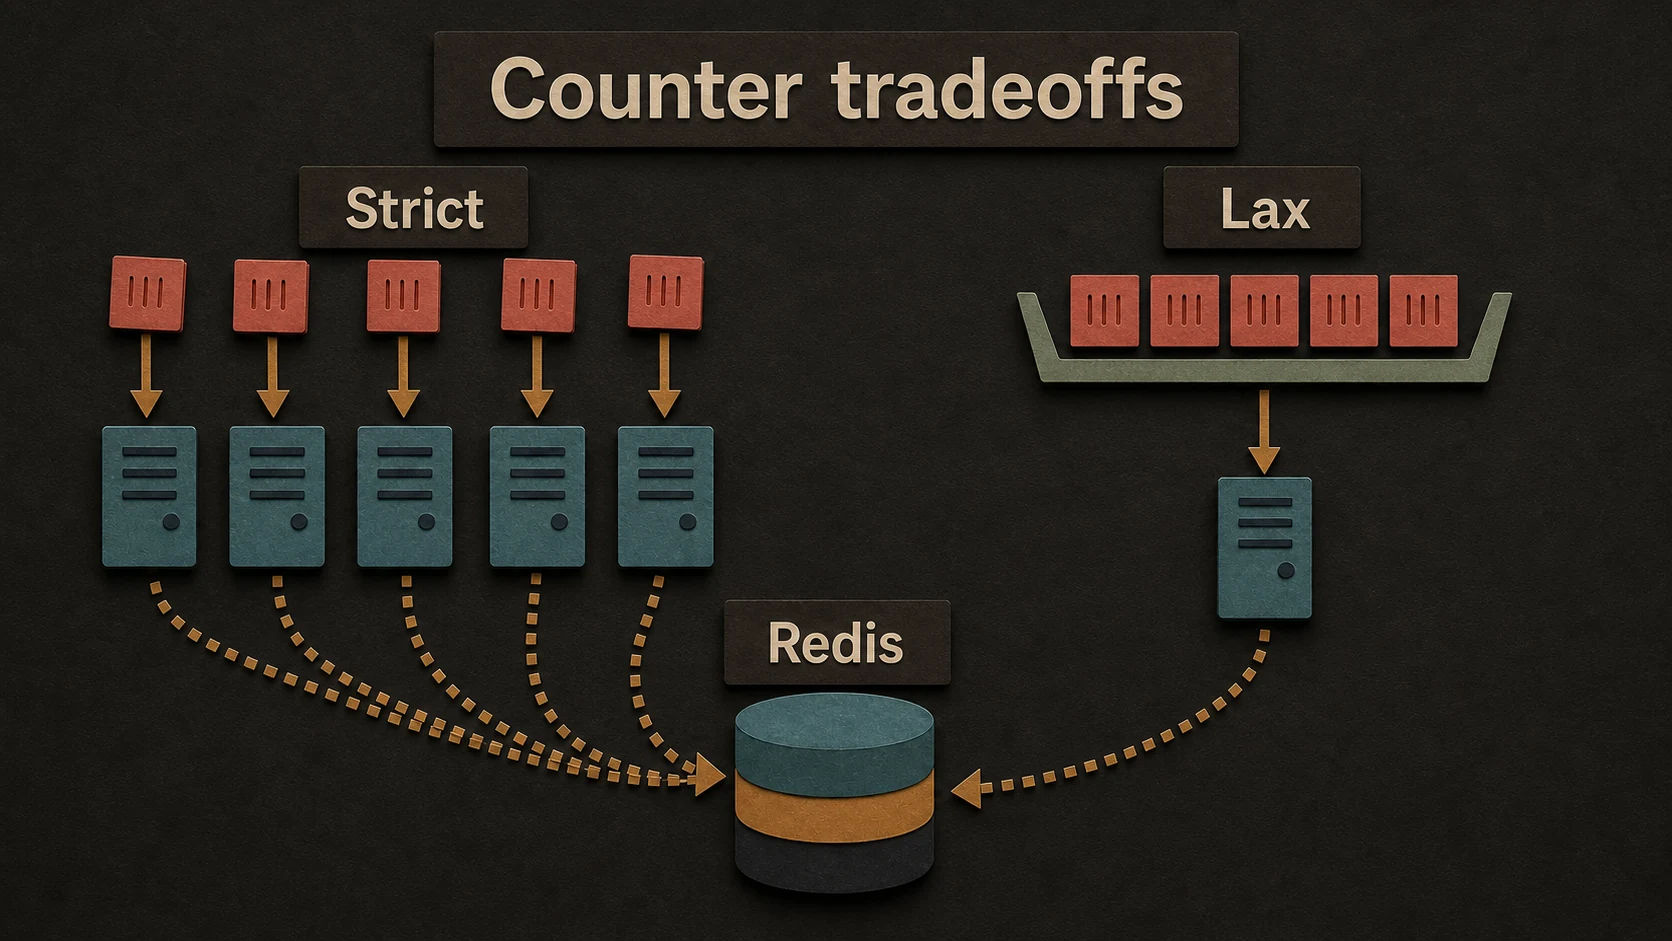
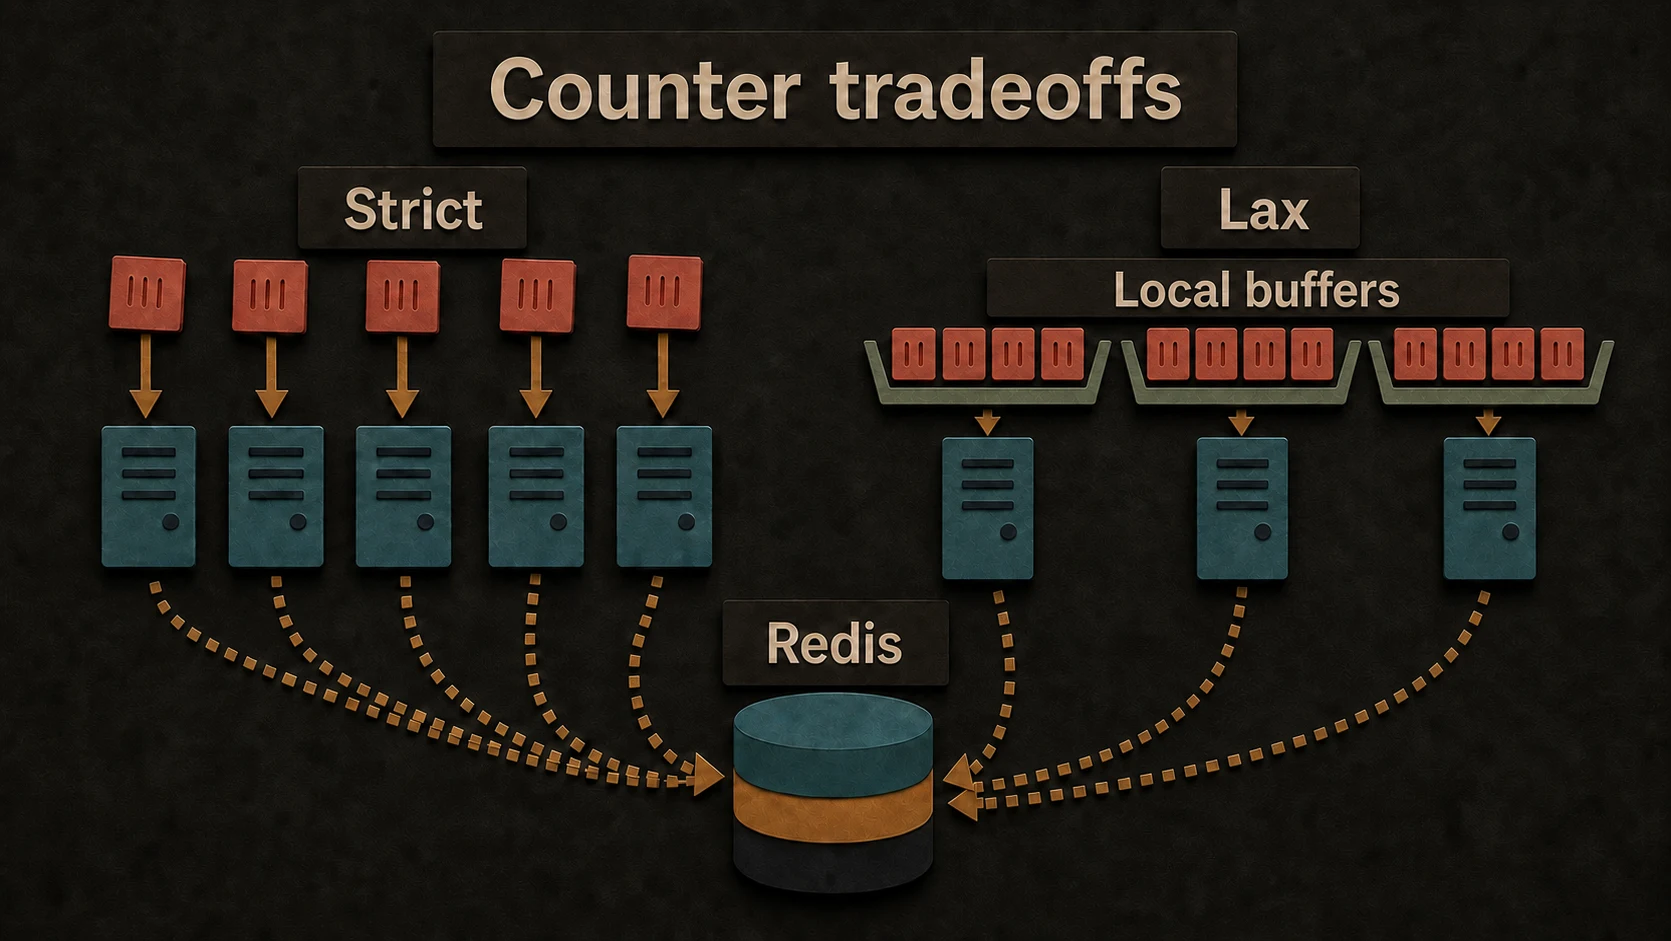
feat: media

diff --git a/content/4.instance-aware-counters/1.index.md b/content/4.instance-aware-counters/1.index.md
@@ -7,7 +7,7 @@ navigation:
 
 Instance-aware counters track each running instance's contribution separately. The **cumulative total is the sum of all live instances**. When an instance stops heartbeating for longer than `dead_instance_threshold_ms` (default 30 s), its slice is automatically removed from the cumulative the next time any surviving instance touches the same key.
 
-![Live instance slices, heartbeats, and automatic dead-instance cleanup](/media/distkit/instance-aware.webp){.rounded-2xl .border .border-neutral-800 .my-8}
+![Strict and lax instance-aware counters combine live slices and remove dead instances](/media/distkit/instance-aware-family.webp){.rounded-2xl .border .border-neutral-800 .my-8}
 
 They live behind the `instance-aware-counter` feature:
 

diff --git a/content/1.getting-started/1.index.md b/content/1.getting-started/1.index.md
@@ -14,7 +14,7 @@ distkit is a toolkit of distributed systems primitives for Rust, backed by Redis
 
 Everything is async and built for [Tokio](https://tokio.rs). Strict operations push their logic into Redis as Lua scripts, so a single round-trip is atomic across every instance sharing the same Redis.
 
-![A request and Lua script producing one atomic Redis result](/media/distkit/atomic-primitives.webp){.rounded-2xl .border .border-neutral-800 .my-8}
+![Distkit includes strict and lax counters, instance-aware counters, locks, and rate limiting](/media/distkit/toolkit-overview.webp){.rounded-2xl .border .border-neutral-800 .my-8}
 
 ## Guarantees
 

diff --git a/content/3.counters/4.conditional-and-batch.md b/content/3.counters/4.conditional-and-batch.md
@@ -7,6 +7,8 @@ navigation:
 
 Both counters support conditional writes and batches. All of them are atomic on the Redis side, so there is no read-modify-write window for another instance to slip through.
 
+![Conditional counter operations compare each input and preserve ordered batch results](/media/distkit/conditional-batches.webp){.rounded-2xl .border .border-neutral-800 .my-8}
+
 ## Conditional writes
 
 `inc_if` and `set_if` apply the change only when the current value satisfies a [`CounterComparator`](/concepts/comparators). They return `(new, old)`; when the condition fails, `new == old` and nothing was written.

diff --git a/content/4.instance-aware-counters/2.strict.md b/content/4.instance-aware-counters/2.strict.md
@@ -7,6 +7,8 @@ navigation:
 
 `StrictInstanceAwareCounter` is immediately consistent with Redis on every call. `set` and `del` bump a per-key **epoch**, which causes any stale instance to reset its stored count on its next operation - this is what prevents double-counting when the global total is reset out from under an instance.
 
+![Strict instance slices update Redis immediately and use epochs to reset stale state](/media/distkit/strict-instance-epochs.webp){.rounded-2xl .border .border-neutral-800 .my-8}
+
 ## Construct
 
 ```rust

diff --git a/content/5.locks/5.guard-state.md b/content/5.locks/5.guard-state.md
@@ -7,6 +7,8 @@ navigation:
 
 A lock guard tracks the state of its lease. Because the lease renews in the background, it's possible (rarely) for a guard to lose its lease mid-section - for instance, if Redis was briefly unreachable past the ttl. `LockGuardState` lets you observe that.
 
+![A lock guard moves from acquired to lost or released and records its acquisition attempt](/media/distkit/guard-lifecycle.webp){.rounded-2xl .border .border-neutral-800 .my-8}
+
 ## LockGuardState
 
 ```rust

diff --git a/content/3.counters/1.index.md b/content/3.counters/1.index.md
@@ -14,6 +14,8 @@ There are two implementations, and they share the same interface:
 
 Pick between them based on the [strict vs lax](/concepts/strict-vs-lax) trade-off.
 
+![Strict counters send every operation to Redis while lax counters buffer writes before flushing](/media/distkit/counter-models.webp){.rounded-2xl .border .border-neutral-800 .my-8}
+
 ## The shared trait
 
 Both implement `CounterTrait`. Bring it into scope to call any of these:

diff --git a/content/5.locks/2.mutex.md b/content/5.locks/2.mutex.md
@@ -7,6 +7,8 @@ navigation:
 
 `Mutex` gives at most one holder across all processes sharing the same Redis key. It mirrors `tokio::sync::Mutex`, minus the inner data - the guard is purely a token that says "you hold the lock".
 
+![A distributed mutex admits one holder, renews its lease, and releases waiting callers](/media/distkit/mutex-lease.webp){.rounded-2xl .border .border-neutral-800 .my-8}
+
 ## Construct
 
 ```rust

diff --git a/content/5.locks/4.options.md b/content/5.locks/4.options.md
@@ -7,6 +7,8 @@ navigation:
 
 Both `Mutex` and `RwLock` are configured with `LockOptions`. The required pieces are the key and the connection; everything else has a sensible default.
 
+![Lock options configure lease duration, retries, wait limits, owner identity, and namespace](/media/distkit/lock-options.webp){.rounded-2xl .border .border-neutral-800 .my-8}
+
 ## Fields
 
 ```rust

diff --git a/content/5.locks/3.rwlock.md b/content/5.locks/3.rwlock.md
@@ -9,6 +9,8 @@ navigation:
 
 It mirrors `tokio::sync::RwLock`. Read guards and write guards are distinct types, both pure access tokens.
 
+![Writer preference lets current readers finish while pausing new readers for a waiting writer](/media/distkit/rwlock-writer-preference.webp){.rounded-2xl .border .border-neutral-800 .my-8}
+
 ## Construct
 
 ```rust

diff --git a/content/4.instance-aware-counters/3.lax.md b/content/4.instance-aware-counters/3.lax.md
@@ -9,6 +9,8 @@ navigation:
 
 Reach for it when you have many `inc`/`dec` calls per second per node and can tolerate a small consistency lag.
 
+![Lax instance-aware counters include pending deltas locally before timed Redis flushes](/media/distkit/lax-instance-buffer.webp){.rounded-2xl .border .border-neutral-800 .my-8}
+
 ## Construct
 
 ```rust

diff --git a/content/3.counters/3.lax-counter.md b/content/3.counters/3.lax-counter.md
@@ -9,6 +9,8 @@ navigation:
 
 Use it for analytics, telemetry, and high-frequency metrics where a few milliseconds of cross-process lag is acceptable.
 
+![Lax counters buffer local writes and flush them to Redis in batches](/media/distkit/counter-models.webp){.rounded-2xl .border .border-neutral-800 .my-8}
+
 ## Construct
 
 ```rust

diff --git a/content/3.counters/2.strict-counter.md b/content/3.counters/2.strict-counter.md
@@ -9,6 +9,8 @@ navigation:
 
 Use it when accuracy is non-negotiable: billing, inventory, quotas.
 
+![Each strict counter request runs as one atomic Redis operation](/media/distkit/atomic-primitives.webp){.rounded-2xl .border .border-neutral-800 .my-8}
+
 ## Construct
 
 ```rust
